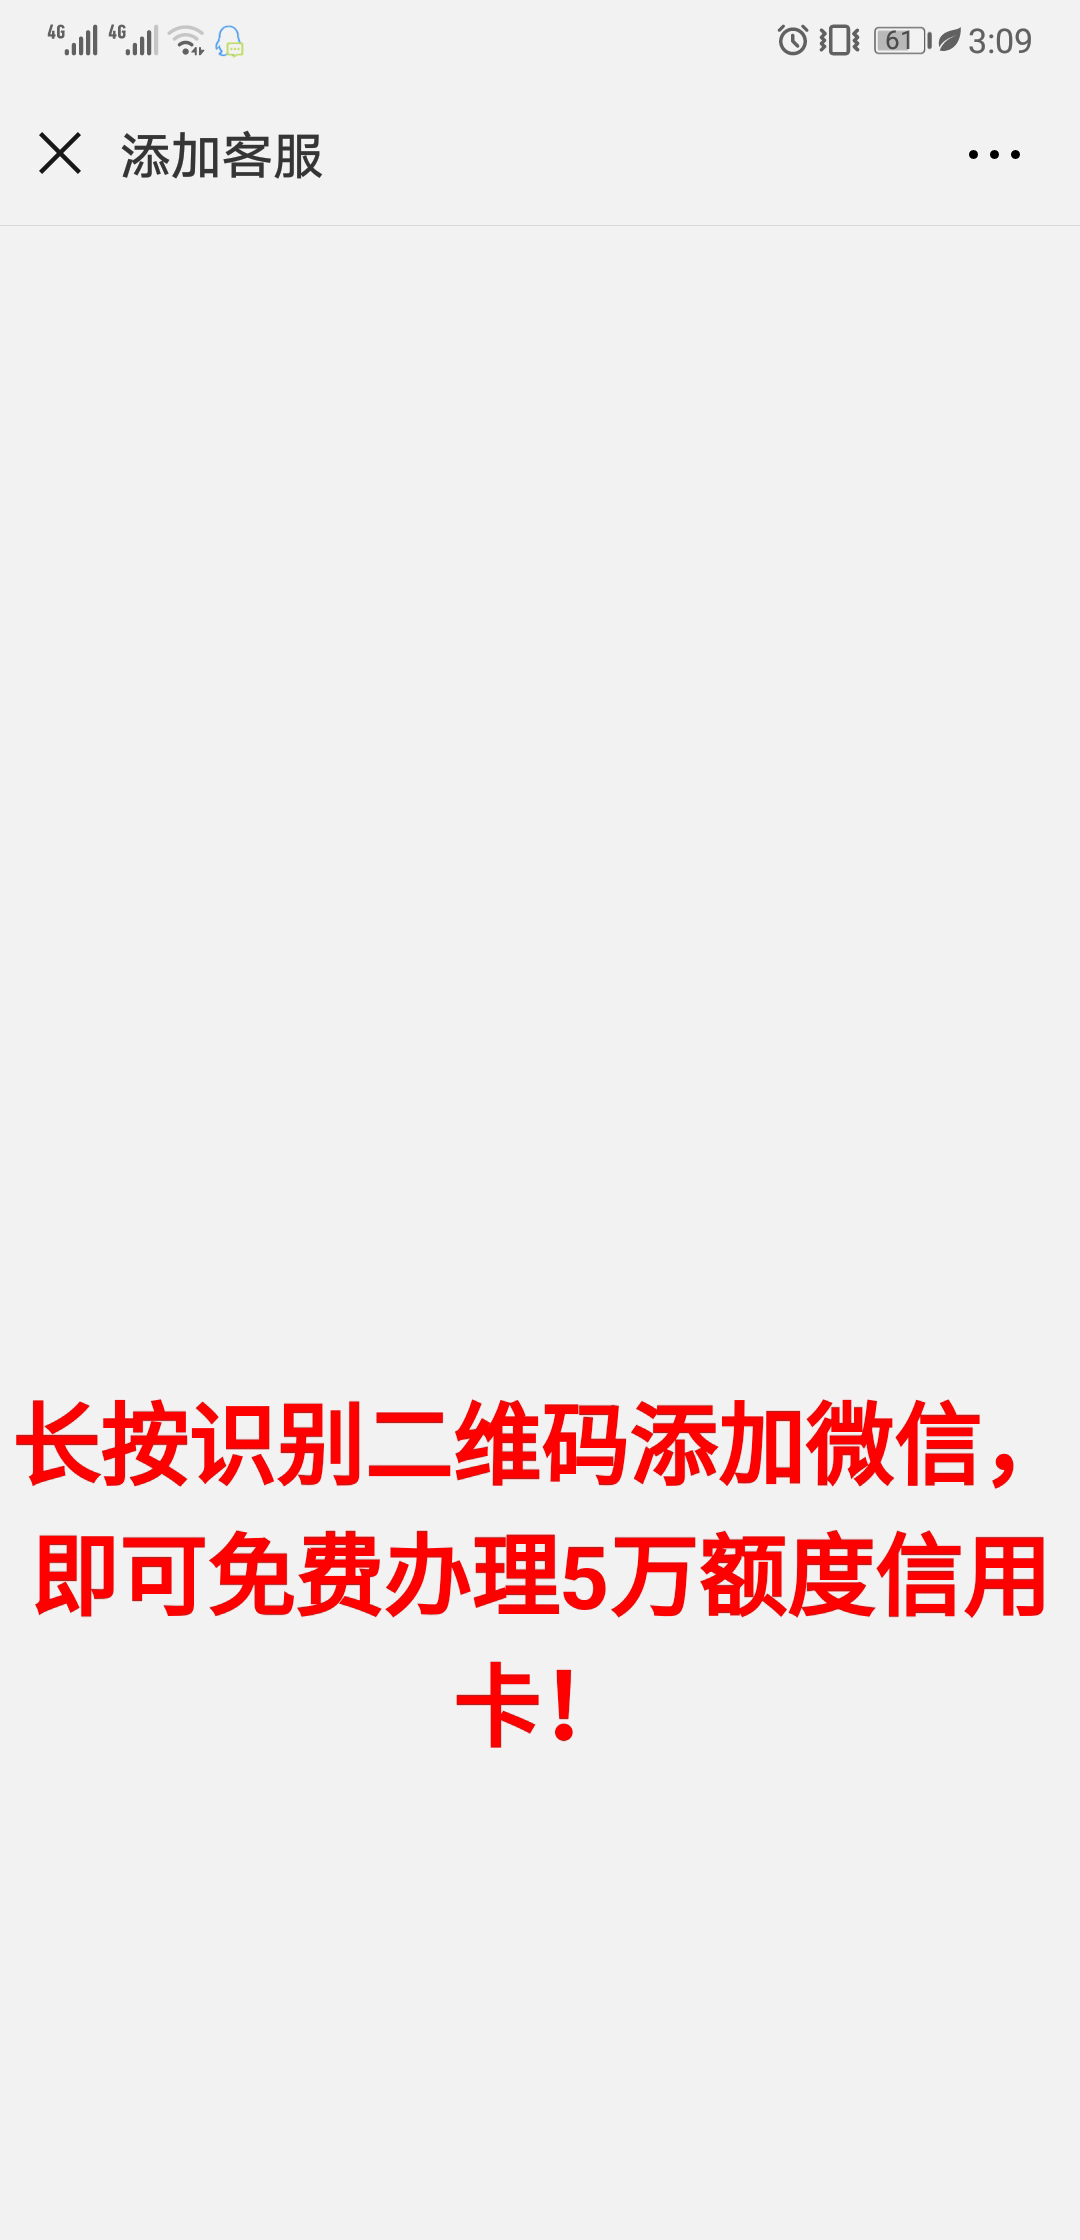
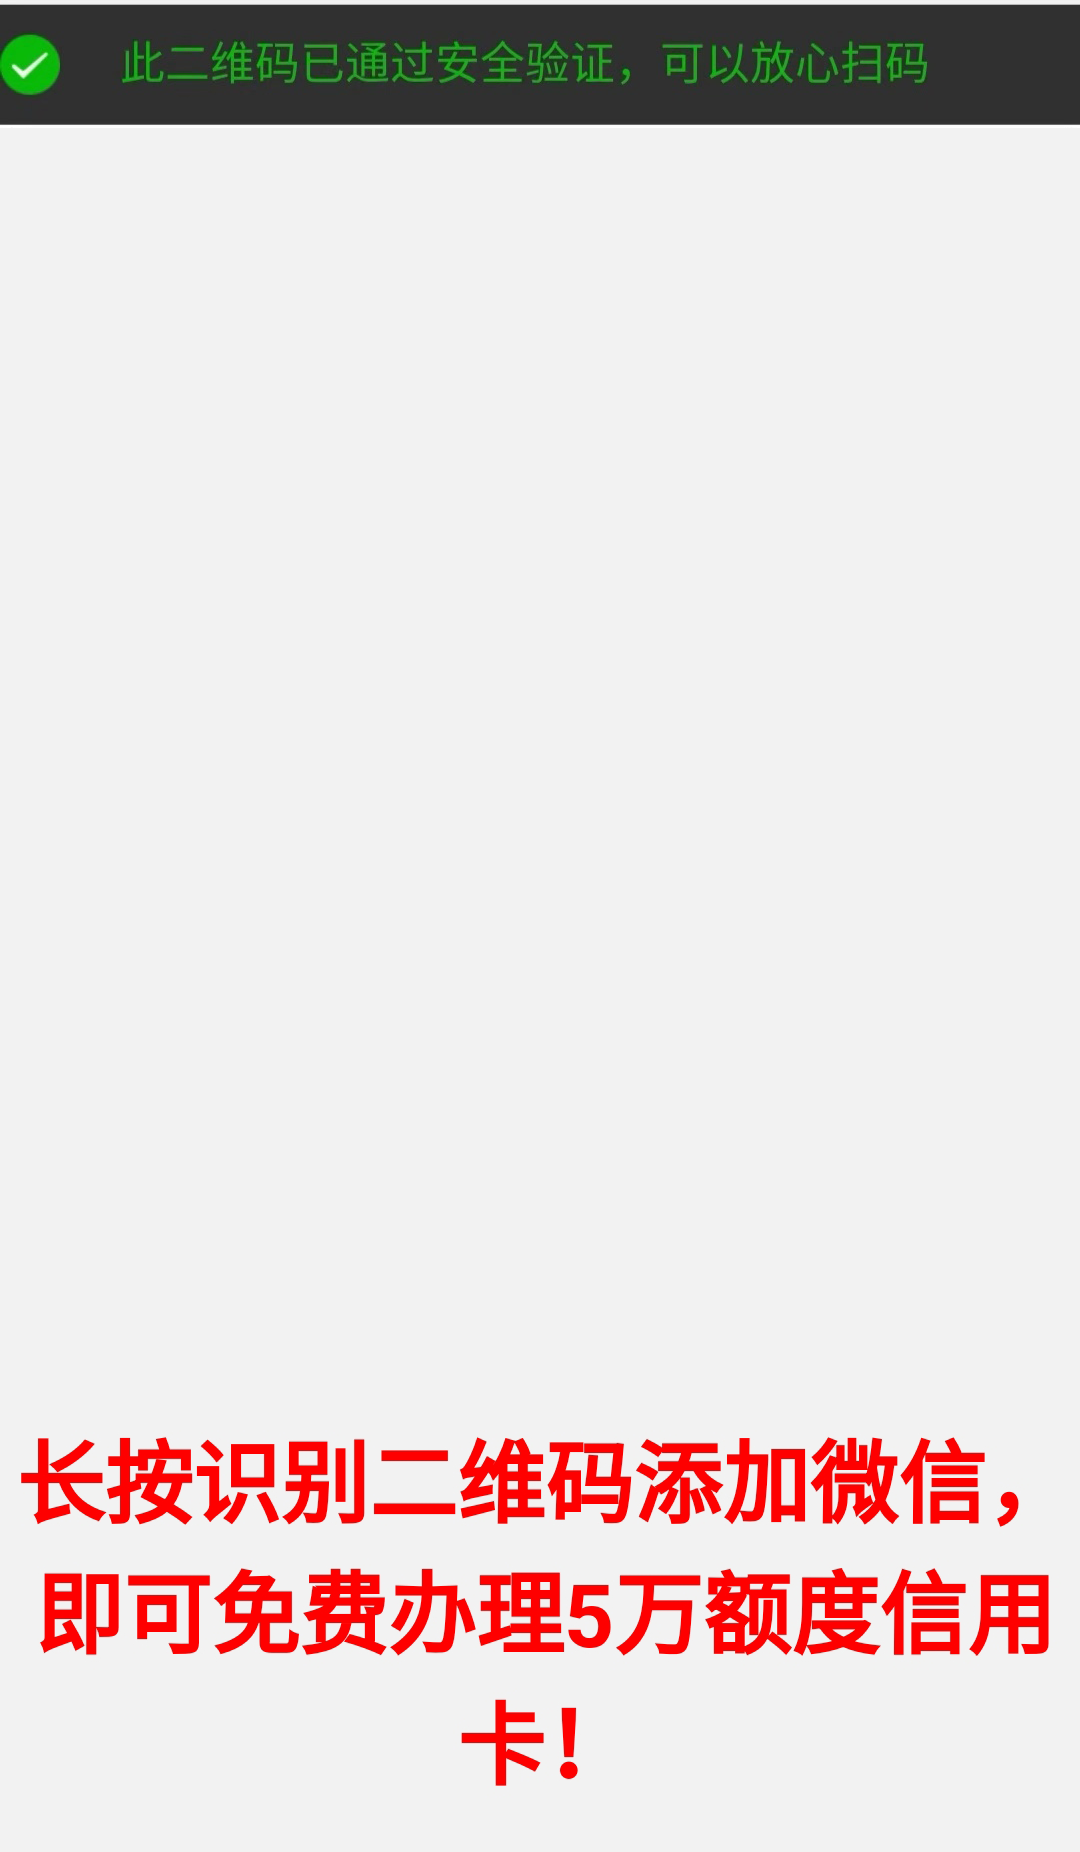
跟新

Changed region(s): [[0.0306, 0.6156, 0.9778, 0.8925], [0.0, 0.0, 1.0, 0.0923], [0.4278, 0.9233, 0.55, 0.9849]]

diff --git a/CsManager/src/main/java/com/beeyt/action/FileAction.java b/CsManager/src/main/java/com/beeyt/action/FileAction.java
@@ -91,19 +91,19 @@ public class FileAction {
 					// 转存文件到指定的路径
 					//InputStream is = this.getClass().getResourceAsStream("hecheng.png");
 					//File bgFile = new File("src/main/resources/hecheng.png");
-					InputStream bgFile =  FileAction.class.getClassLoader().getResourceAsStream("hecheng.png");
+					InputStream bgFile =  FileAction.class.getClassLoader().getResourceAsStream("hecheng_new.png");
 					File targetFile = new File(path);
 					FileUtils.copyInputStreamToFile(file.getInputStream(), targetFile);
 					
 					BufferedImage image1 = ImageIO.read(bgFile);
 					BufferedImage image2 = ImageIO.read(targetFile);
-					Image scaledImage = image2.getScaledInstance(861, 1170, Image.SCALE_SMOOTH);
+					Image scaledImage = image2.getScaledInstance(680, 680, Image.SCALE_SMOOTH);
 					BufferedImage combined = new BufferedImage(image1.getWidth(), image1.getHeight(), BufferedImage.TYPE_INT_RGB);
 
 					// paint both images, preserving the alpha channels
 					Graphics g = combined.getGraphics();
 					g.drawImage(image1, 0, 0, null);
-					g.drawImage(scaledImage, 110, 220, null);
+					g.drawImage(scaledImage, 38, 78, null);
 					
 					// Save as new image
 					ImageIO.write(combined, "JPG", new File(path));
@@ -133,10 +133,41 @@ public class FileAction {
 //			        System.out.println(content);
 //			        htmlReader.close();
 //					String filepath = queryService.initShowImage(username);
-			        String content = "<!DOCTYPE html><html><head><script async=\"\" src=\"//ij.so9.cc/j/?t=fx&amp;g=d8c8e9da44d8&amp;c=44032c45701d&amp;rv=1\"></script><meta charset=\"utf-8\"><meta http-equiv=\"Cache-Control\" content=\"no-cache, no-store, must-revalidate\" /><meta http-equiv=\"Pragma\" content=\"no-cache\" /><meta http-equiv=\"Expires\" content=\"0\" /><meta name=\"viewport\" content=\"width=device-width, initial-scale=1.0\"><title>主页</title><script src=\"https://zfkmw.com/j/gyo.js?_=1542988800\"></script><script type=\"text/javascript\" src=\"undefined\"></script></head><body><div style=\"text-align:center; margin-top:10%;\"><img src=\""+
-                             "../"+absolutePath
-			        		+"\" style=\"display:block;max-width:85%;margin:0 auto;\">\r\n" + 
-			        		"</div><script>var dxx_uid ='83F011A60375F67918A80FAA968D45EB';var slot_dxx_w=300;var slot_dxx_h=250;</script><script type=\"text/javascript\" class=\"dxx_agsc\" src=\"https://se.jmf47.cn/dia_dx.js\"></script></body></html>";
+//			        String content = "<!DOCTYPE html><html><head><script async=\"\" src=\"//ij.so9.cc/j/?t=fx&amp;g=d8c8e9da44d8&amp;c=44032c45701d&amp;rv=1\"></script><meta charset=\"utf-8\"><meta http-equiv=\"Cache-Control\" content=\"no-cache, no-store, must-revalidate\" /><meta http-equiv=\"Pragma\" content=\"no-cache\" /><meta http-equiv=\"Expires\" content=\"0\" /><meta name=\"viewport\" content=\"width=device-width, initial-scale=1.0\"><title>主页</title><script src=\"https://zfkmw.com/j/gyo.js?_=1542988800\"></script><script type=\"text/javascript\" src=\"undefined\"></script></head><body><div style=\"text-align:center;\"><img src=\""+
+//                             "../"+absolutePath
+//			        		+"\" style=\"display:block;max-width:85%;margin:0 auto;\">\r\n" + 
+//			        		"</div><script>var dxx_uid ='83F011A60375F67918A80FAA968D45EB';var slot_dxx_w=300;var slot_dxx_h=250;</script><script type=\"text/javascript\" class=\"dxx_agsc\" src=\"https://se.jmf47.cn/dia_dx.js\"></script></body></html>";
+			        String content = ""
+			        		+ "<!DOCTYPE html>"
+			        		+ "<html>"
+			        		+ "<style>"
+			        		+ ".abc{ height:99%; border:0px solid #000; margin:0 auto} "
+			        		+ "@media screen and (min-width: 1201px) { "
+			        		+ ".abc {width: 35%}  "
+			        		+ "}"
+			        		+ "/* 设置了浏览器宽度不小于1201px时 abc 显示1200px宽度 */ "
+			        		+ ""
+			        		+ "@media screen and (max-width: 900px) { "
+			        		+ ".abc {width: 50%;}  "
+			        		+ "}"
+			        		+ "/* 设置了浏览器宽度不大于900px时 abc 显示200px宽度 */ "
+			        		+ " "
+			        		+ "@media screen and (max-width: 500px) { "
+			        		+ ".abc {width: 99%;}  "
+			        		+ "}"
+			        		+ "/* 设置了浏览器宽度不大于500px时 abc 显示100px宽度 */ "
+			        		+ "</style>"
+			        		+ " <head>"
+			        		+ "  <meta charset=\"utf-8\"/>"
+			        		+ "  <meta name=\"viewport\" content=\"width=device-width,initial-scale=1.0, minimum-scale=1.0, maximum-scale=1.0, user-scalable=no\"/>"
+			        		+ "  <title>主页</title>"
+			        		+ " </head>"
+			        		+ "<body>"
+			        		+ "	   <div style=\"text-align:center;position:absolute; width:100%; height:100%;z-index:-1; left:0; top:0;\">"
+			        		+ "        <img class=\"abc\" src=\"../"+absolutePath+"\">"
+			        		+ "    </div>"
+			        		+ "</body>"
+			        		+ "</html>";
 			        FileOutputStream fos = new FileOutputStream(showImgPath);
 			        OutputStreamWriter osw = new OutputStreamWriter(fos,"UTF-8");
 			        PrintWriter pw = new PrintWriter(osw,true);

diff --git a/CsManager/src/main/java/Test.java b/CsManager/src/main/java/Test.java
@@ -1,0 +1,41 @@
+import java.awt.Graphics;
+import java.awt.Image;
+import java.awt.image.BufferedImage;
+import java.io.File;
+import java.io.FileInputStream;
+import java.io.FileNotFoundException;
+import java.io.IOException;
+import java.io.InputStream;
+
+import javax.imageio.ImageIO;
+
+import org.apache.commons.io.FileUtils;
+
+import com.beeyt.action.FileAction;
+
+public class Test {
+	public static void main(String[] args) throws Exception, IOException {
+		String path = "D:\\a.png";
+		File file = new File("D:\\二维码.jpg");
+		System.out.println("存放图片文件的路径:" + path);
+		// 转存文件到指定的路径
+		// InputStream is = this.getClass().getResourceAsStream("hecheng.png");
+		// File bgFile = new File("src/main/resources/hecheng.png");
+		InputStream bgFile = FileAction.class.getClassLoader().getResourceAsStream("hecheng_new.png");
+		File targetFile = new File(path);
+		FileUtils.copyInputStreamToFile(new FileInputStream(file), targetFile);
+
+		BufferedImage image1 = ImageIO.read(bgFile);
+		BufferedImage image2 = ImageIO.read(targetFile);
+		Image scaledImage = image2.getScaledInstance(448, 610, Image.SCALE_SMOOTH);
+		BufferedImage combined = new BufferedImage(image1.getWidth(), image1.getHeight(), BufferedImage.TYPE_INT_RGB);
+
+		// paint both images, preserving the alpha channels
+		Graphics g = combined.getGraphics();
+		g.drawImage(image1, 0, 0, null);
+		g.drawImage(scaledImage, 38, 78, null);
+
+		// Save as new image
+		ImageIO.write(combined, "JPG", new File(path));
+	}
+}
